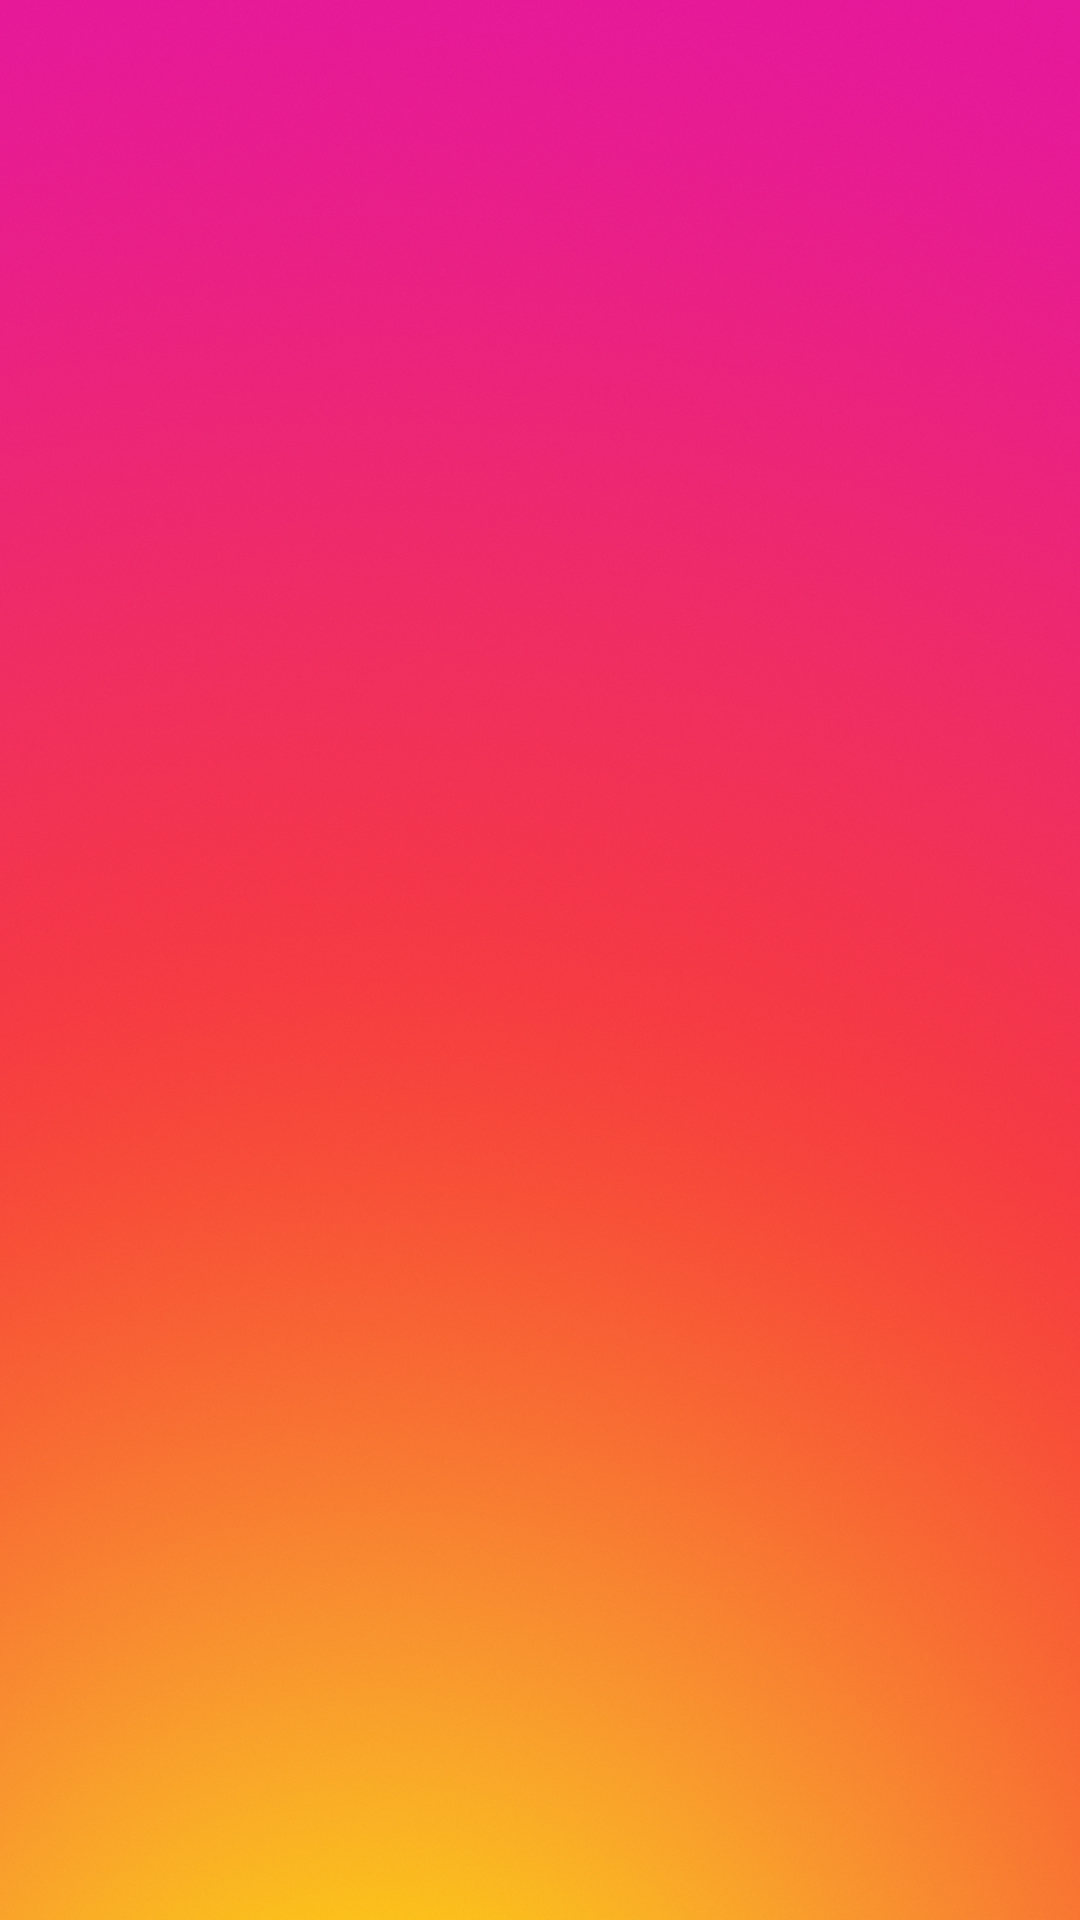
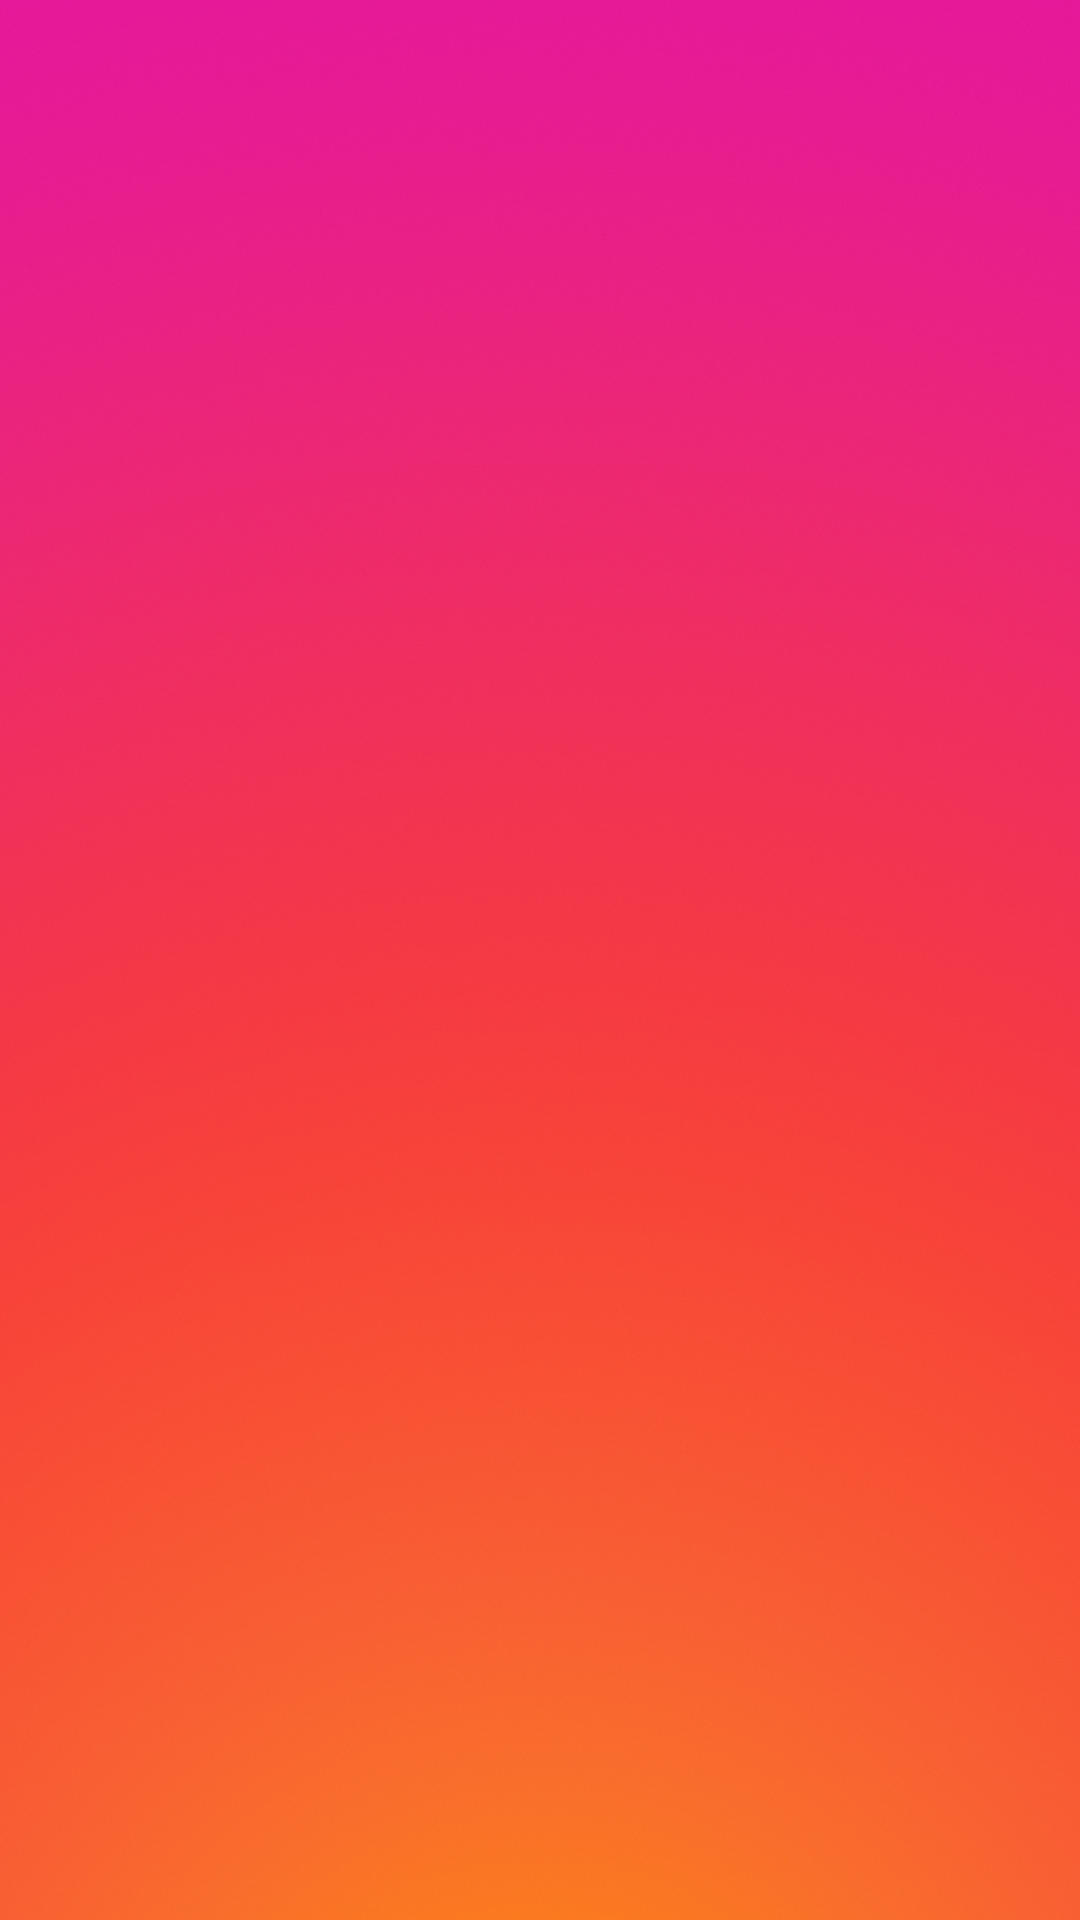
complete app

Changed region(s): [[0.0, 0.6875, 0.9778, 1.0]]

diff --git a/gradient_bg.py b/gradient_bg.py
@@ -9,50 +9,51 @@ def generate_insta_bg_final(filename="bg-1.png", width=1920, height=1080, is_jpe
     u_exp = u[:, :, np.newaxis]
     v_exp = v[:, :, np.newaxis]
     
-    # --- ĐÃ SỬA MÀU Ở ĐÂY ---
-    magenta_top_left = np.array([230, 25, 155], dtype=np.float32) # Đổi từ xanh tím sang Hồng magenta
-    magenta          = np.array([230, 25, 155], dtype=np.float32) # Hồng magenta (trên phải/giữa)
-    orange_red       = np.array([255, 75, 20], dtype=np.float32)  # Cam đậm / đỏ cam
-    yellow_gold      = np.array([255, 215, 10], dtype=np.float32) # Vàng sáng rực
+    # --- ĐÃ CẬP NHẬT MÀU VÀ ĐỐI XỨNG ---
+    magenta_top_left = np.array([230, 25, 155], dtype=np.float32) # Hồng magenta
+    magenta          = np.array([230, 25, 155], dtype=np.float32) # Hồng magenta
+    orange_red       = np.array([255, 75, 20], dtype=np.float32)  # Cam đậm / đỏ cam (lớp giữa)
+    bright_orange    = np.array([255, 135, 15], dtype=np.float32) # Cam tươi (cam hơn cam vàng, ở dưới cùng)
+    # -----------------------------------
     
     mix_factor = np.clip(u_exp * 1.6 + v_exp * 0.3, 0, 1)
     top_layer = (1 - mix_factor) * magenta_top_left + mix_factor * magenta
-    # ------------------------
     
+    # Sửa các tọa độ u (chiều ngang) về chính giữa (0.5) để tạo độ ĐỐI XỨNG hoàn hảo
     if width > height:
-        dist_yellow = np.sqrt(((u - 0.2) * 0.7)**2 + ((v - 1.15) * 1.3)**2)
-        dist_yellow_exp = dist_yellow[:, :, np.newaxis]
+        dist_bottom = np.sqrt(((u - 0.5) * 0.7)**2 + ((v - 1.15) * 1.3)**2)
+        dist_bottom_exp = dist_bottom[:, :, np.newaxis]
         
-        w_yellow = np.clip(1.0 - dist_yellow_exp / 0.7, 0, 1)
-        w_yellow = w_yellow**2 * (3 - 2 * w_yellow)  # Làm mượt Smoothstep
+        w_bottom = np.clip(1.0 - dist_bottom_exp / 0.7, 0, 1)
+        w_bottom = w_bottom**2 * (3 - 2 * w_bottom)  # Làm mượt Smoothstep
         
-        dist_orange = np.sqrt(((u - 0.4) * 0.8)**2 + ((v - 1.1) * 1.1)**2)
+        dist_orange = np.sqrt(((u - 0.5) * 0.8)**2 + ((v - 1.1) * 1.1)**2)
         dist_orange_exp = dist_orange[:, :, np.newaxis]
         
-        w_orange = np.clip(1.0 - dist_orange_exp / 1.2, 0, 1) - w_yellow * 0.8
+        w_orange = np.clip(1.0 - dist_orange_exp / 1.2, 0, 1) - w_bottom * 0.8
         w_orange = np.clip(w_orange, 0, 1)
         w_orange = w_orange**1.5 * (3 - 2 * w_orange)
         
     else:
         aspect = width / height
-        dist = np.sqrt(((u - 0.35) * aspect)**2 + (v - 1.15)**2)
+        dist = np.sqrt(((u - 0.5) * aspect)**2 + (v - 1.15)**2)
         dist_exp = dist[:, :, np.newaxis]
         
-        w_yellow = np.clip(1.0 - dist_exp / 0.7, 0, 1)
-        w_yellow = w_yellow**2 * (3 - 2 * w_yellow)
+        w_bottom = np.clip(1.0 - dist_exp / 0.7, 0, 1)
+        w_bottom = w_bottom**2 * (3 - 2 * w_bottom)
         
-        w_orange = np.clip(1.0 - dist_exp / 1.2, 0, 1) - w_yellow
+        w_orange = np.clip(1.0 - dist_exp / 1.2, 0, 1) - w_bottom
         w_orange = np.clip(w_orange, 0, 1)
         w_orange = w_orange**1.5 * (3 - 2 * w_orange)
         
-    w_top = np.clip(1.0 - w_yellow - w_orange, 0, 1)
+    w_top = np.clip(1.0 - w_bottom - w_orange, 0, 1)
     
-    total_w = w_top + w_orange + w_yellow + 1e-5
+    total_w = w_top + w_orange + w_bottom + 1e-5
     w_top /= total_w
     w_orange /= total_w
-    w_yellow /= total_w
+    w_bottom /= total_w
     
-    gradient = w_top * top_layer + w_orange * orange_red + w_yellow * yellow_gold
+    gradient = w_top * top_layer + w_orange * orange_red + w_bottom * bright_orange
     
     np.random.seed(42)
     noise = np.random.normal(scale=1.2, size=gradient.shape).astype(np.float32)